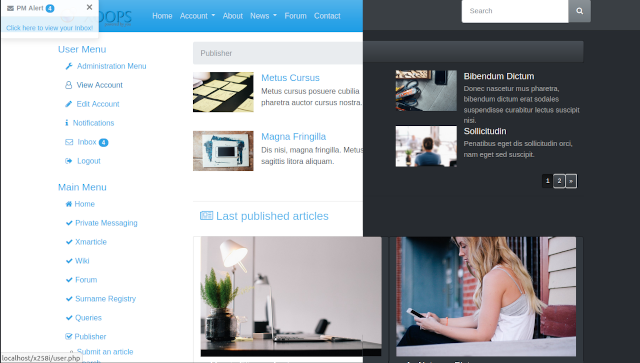
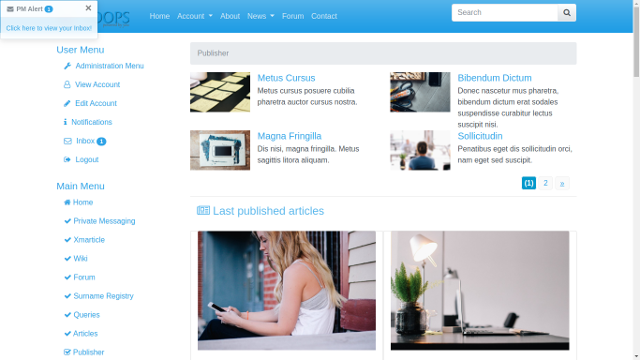
update

diff --git a/css/my_xoops.css b/css/my_xoops.css
@@ -1,0 +1,5 @@
+/* 
+Use this file - my_xoops.css
+- To customize and add CSS definitions for the light variant or for the unique variant,
+- To override the Bootstrap CSS file in order to change the default settings of this file.
+*/

diff --git a/css/my_xoops_dark.css b/css/my_xoops_dark.css
@@ -1,0 +1,5 @@
+/* 
+Use this file - my_xoops_dark.css
+- To customize and add CSS definitions for the dark variant,
+- To override the Bootstrap CSS file in order to change the default settings of this file.
+*/

diff --git a/css/bootstrap_dark.min.css b/css/bootstrap_dark.min.css
@@ -1,0 +1,1 @@
+@import url(../css-slate/bootstrap.min.css);

diff --git a/css/cookieconsent_dark.css b/css/cookieconsent_dark.css
@@ -1,0 +1,1 @@
+@import url(../css-slate/cookieconsent.css);

diff --git a/css/xoops_dark.css b/css/xoops_dark.css
@@ -1,0 +1,1 @@
+@import url(../css-slate/xoops.css);

diff --git a/language/french/main.php b/language/french/main.php
@@ -51,7 +51,7 @@ define('THEME_EMAIL', 'Votre Courriel');
 
 //Cookie consent -- escape for javascript if needed
 define('THEME_COOKIE_MESSAGE', 'Ce site utilise des cookies pour vous fournir la meilleure expérience sur notre site.');
-define('THEME_COOKIE_DISMISS', 'Je l\'ai !');
+define('THEME_COOKIE_DISMISS', 'Compris !');
 define('THEME_COOKIE_LEARNMORE', 'Infos supplémentaires');
 
 define('THEME_SELECT_ALL', 'Tout sélectionner');
@@ -66,8 +66,8 @@ define('THEME_TOOLBAR_SYSTEM_MODULE', 'Module Système');
 define('THEME_TOOLBAR_GENERAL_SETTINGS', 'Préférences générales');
 define('THEME_TOOLBAR_TOOLS', 'Outils');
 define('THEME_TOOLBAR_SYSTEM_OPTIONS', 'Options du système');
-define('THEME_TOOLBAR_DEBUGMODE', 'Mode débogage');
-define('THEME_TOOLBAR_THIS_MODULE', 'Ce module');
+define('THEME_TOOLBAR_DEBUGMODE', 'Mode Debug');
+define('THEME_TOOLBAR_THIS_MODULE', 'Ce Module');
 define('THEME_TOOLBAR_MODULES', 'Modules');
 define('THEME_TOOLBAR_BLOCKS', 'Blocs');
 define('THEME_TOOLBAR_TEMPLATES', 'Modèles');
@@ -89,17 +89,26 @@ define('THEME_TOOLBAR_CLOSE', 'Fermer');
 define('THEME_TOOLBAR_SHOW_BLOCK_EDIT', 'Édition du Bloc');
 define('THEME_TOOLBAR_EDIT_THIS_BLOCK', 'Éditer ce Bloc');
 
-define('THEME_COMMENT_ADD', 'Ajoutez votre commentaire');
-define('THEME_COMMENT_OPTIONS', 'Options d\'affichage des commentaires');
+define('THEME_COMMENT_ADD', 'Ajouter un commentaire');
+define('THEME_COMMENT_OPTIONS', 'Options d\'affichage des commentaires :');
 
-define('THEME_PERMISSIONS_LEGEND', 'Autorisations &amp; Légende');
+define('THEME_PERMISSIONS_LEGEND', 'Permissions &amp; Légendes');
 
-define('THEME_INBOX_ALERT', 'Alerte MP');
-define('THEME_INBOX_LINK', 'Cliquez ici pour voir votre boîte de réception!');
+define('THEME_INBOX_ALERT', '!!! Message(s) privé(s) !!!');
+define('THEME_INBOX_LINK', 'Cliquez ici pour atteindre votre boite mail !');
 
-define('THEME_EVENT_DOWNLOADS', 'Téléchargements d\'événements');
+define('THEME_EVENT_DOWNLOADS', 'Evènement de Téléchargements');
 define('THEME_FILE_NAME', 'Fichier');
 define('THEME_FILE_SIZE', 'Taille');
 
-define('THEME_CONTROL_NEXT', 'Prochain');
+define('THEME_CONTROL_NEXT', 'Suivant');
 define('THEME_CONTROL_PREVIOUS', 'Précédent');
+
+/*
+define('THEME_NOTREGISTERED', 'Pas encore inscrit ? <!-- <a href="/modules/profile/register.php"> --> <span class="text-muted">Inscrivez-vous !</span><!--</a>-->');
+define('THEME_LOSTPASSWORD', 'Mot de passe oublié ?');
+define('THEME_NOPROBLEM', 'Saisissez l\'adresse courriel de votre compte.');
+define('THEME_YOUREMAIL', 'Votre Courriel :');
+define('THEME_SENDPASSWORD', 'Envoyer le mot de passe');
+define('THEME_REMEMBERME', 'Se souvenir de moi');
+*/

diff --git a/README.md b/README.md
@@ -1,38 +1,44 @@
 # xSwatch4-enabled
-
+==================
 
 **Adaptation pour XOOPS 2.5.10 du thème xSwatch 4 en Bootstrap 4 (créé par geekwright pour XOOPS 2.5.11)**
-
 **Fonctionne aussi sous XOOPS 2.5.11**
 
 By alain01
 
----
 
-xSwatch4 is a theme for [XOOPS 2.5.11](https://xoops.org) that is based on [Bootstrap](https://getbootstrap.com) 4.4.1.
+xSwatch4
+=======
+
+xSwatch4 is a theme for [XOOPS 2.5.11](https://xoops.org) that is based on [Bootstrap](https://getbootstrap.com) 4.6
 
 The default theme is based on [Bootswatch Cerulean](https://bootswatch.com/cerulean/).
 
-### Features:
+Features:
 
 - Emphasis on better mobile experience
 - Self hosted, with no off domain resources required
 - Built in cookie consent
 - Administrator toolbar with block edit feature
+- Switch between light and dark theme based on media queries
 
-### Customize xSwatch:
+Customize xSwatch:
 
 - 21 themes in 1 theme (Preview : [Bootswatch](https://bootswatch.com/))
-  You can pick from any of the 21 variations theme. 'cerulean' is the default thème.
-  In the /css directory, modify the 3 files (bootstrap.min.css, cookieconsent.css and xoops.css) the string "css-cerulean" to a valid value.
-  Valid values are:
-  > css-cerulean - css-cosmo - css-cyborg - css-darkly - css-flaty - css-journal - css-litera
-  
-  > css-lumen - css-lux - css-materia - css-minty - css-pulse - css-sandstone - css-simplex 
-  
-  > css-sketchy - css-slate - css-solar - css-spacelab - css-superhero - css-united - css-yeti
-
-- Customize your own css code in css/my_css.css file. You can overload bootstrap definitions
+- Dual theme light and dark media query responsive operation - 
+  Two files control which themes are used, _tpl/xswatchCss.tpl_ and _tpl/xswatchDarkCss.tpl_.
+  In the file _tpl/xswatchCss.tpl_, edit the bottom line to match the Bootswatch theme of your
+  choice for use with prefers-color-scheme light media queries. By default, the line reads 
+  **css-cerulean**. In the file _tpl/xswatchDarkCss.tpl_, edit the bottom line to match the Bootswatch theme of your
+  choice for use with dark media queries.  By default, the line reads **css-slate**. 
+  Your site will then follow the use's browser or OS preference to choose light or dark.
+- Single theme operation - 
+  Edit _tpl/xswatchDarkCss.tpl_ and delete the line with the file name, and the theme will
+  be locked to whatever theme is specified in the file _tpl/xswatchCss.tpl_. No consideration
+  of prefers-color-scheme queries will be made. In the file _tpl/xswatchCss.tpl_, edit the 
+  bottom line to match the Bootswatch theme of your choice. By default, the line reads 
+  **css-cerulean**. To change to a dark theme, for example, change it to **css-slate**.
+  You can pick from any of the 21 variations listed in the comments in _tpl/xswatchCss.tpl_  
 - Customize the Navigation Bar in tpl/nav-menu.tpl and language/*/main.php to match your system and installed modules
 - Customize the Jumbotron in theme.tpl and tpl/jumbotron.tpl
 - Enable a slider in theme.tpl and tpl/slider.tpl
@@ -40,6 +46,8 @@ The default theme is based on [Bootswatch Cerulean](https://bootswatch.com/cerul
 - Customize or disable inbox alert in theme.tpl and tpl/inboxAlert.tpl
 - For best experience install both the PM and Profile modules
 - Customize xmnews block : for column blocks, copy xmnews_block_colonnes.tpl to xmnews_block.tpl (copy xmnews_block_lignes.tpl to xmnews_block.tpl to return to initial state)
+- Customize _css/my_xoops.css to add your css definitions and override Bootstrap definitions for the light variant or the unique variant
+- Customize _css/my_xoops_dark.css to add your css definitions and override Bootstrap definitions for the dark variant
 
 In addition to templates for the modules included in XOOPS (pm, profile and system,) Bootstrap v4.4 templates are included for the following modules:
 
@@ -58,7 +66,7 @@ In addition to templates for the modules included in XOOPS (pm, profile and syst
 - xoopsfaq - [XoopsModules25x/xoopsfaq](https://github.com/XoopsModules25x/xoopsfaq)
 
 
-### Credits:
+Credits:
 
 - Grégory Mage - [xm modules templates](https://github.com/GregMage)
 - Twitter Bootstrap - [Bootstrap](https://getbootstrap.com)
